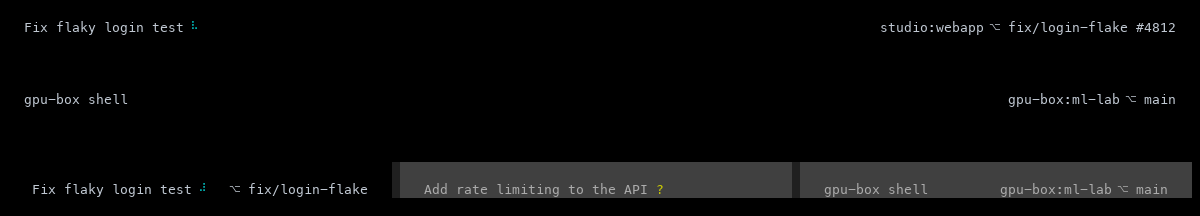
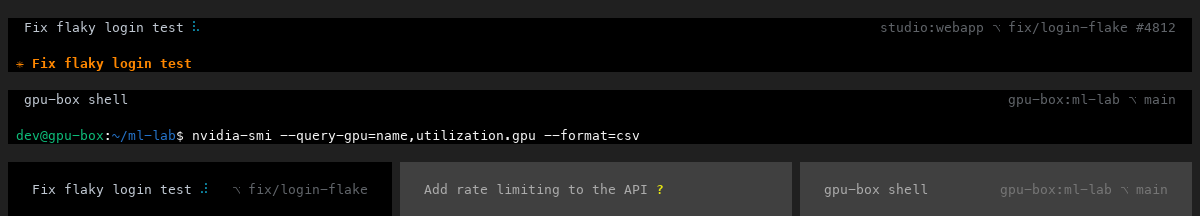
fix(hn): show the local host beside the status clock

diff --git a/tui/tests/pane-ui.py b/tui/tests/pane-ui.py
@@ -31,7 +31,8 @@ ENV.update(HOME=str(BASE), HN_TMPDIR=str(BASE), HN_SOCKET_NAME=PREFIX, PORT=str(
            TERM='xterm-256color', COLORTERM='truecolor', SHELL='/bin/sh', HARNESS_TUI_DESK='sync',
            HARNESS_TUI_NOTIFY='off', HN_DESKTOP='off', MOCK_DEMO='1', MOCK_RECONNECT='1', MOCK_USAGE='100')
 CONF = BASE / 'tmux.conf'
-CONF.write_text('set -g automatic-rename off\nset -g status-right "  #{usage_remaining_mark}  #{s/ /  /:fleet}  #{pane_machine}:#{b:pane_current_path}  20:41 "\n')
+CONF.write_text('set -g automatic-rename off\n'
+                'set -g status-right \'  #{usage_remaining_mark}  #{s/ /  /:fleet}  "#{=/21/…:host}"  20:41 \'\n')
 OUTPUT = Path(os.environ['HN_PANE_UI_OUTPUT']) if os.environ.get('HN_PANE_UI_OUTPUT') else None
 if OUTPUT:
     OUTPUT.mkdir(parents=True, exist_ok=True)
@@ -221,38 +222,44 @@ try:
     assert plain_header.startswith(title + ' '), (title, plain_header)
     hn('set', '-gu', 'status-right')
     default_status = hn('show', '-gv', 'status-right', strip=False)
-    assert all(part not in default_status for part in ('pane_branch', 'pane_where', 'git:'))
-    location = value('#{pane_machine}:#{b:pane_current_path}')
-    assert location in value(default_status), (location, value(default_status))
-    wait(lambda: location in tmux('capture-pane', '-p', '-t', 'test').splitlines()[-1], 'bottom right shows the focused machine and folder')
+    assert all(part not in default_status for part in ('pane_branch', 'pane_where', 'pane_machine', 'pane_current_path', 'pane_project', 'git:'))
+    assert value('#{host}') == socket.gethostname(), 'status host is the machine running hn'
+    host_label = value('"#{=/21/…:host}"')
+    assert host_label in value(default_status), (host_label, value(default_status))
+    def local_host_status():
+        line = tmux('capture-pane', '-p', '-t', 'test').splitlines()[-1]
+        return re.search(re.escape(host_label) + r'  \d{2}:\d{2}$', line.rstrip()) and '[' + session + ']' not in line
     def aligned_status_edges():
         line = tmux('capture-pane', '-p', '-t', 'test').splitlines()[-1]
-        return line.startswith(' [') and len(line.rstrip()) == 149
+        return re.match(r' \d+:', line) and len(line.rstrip()) == 149
     wait(lambda: 'Claude 0%  Codex 89%' in tmux('capture-pane', '-p', '-t', 'test').splitlines()[-1], 'default status includes both subscription allowances')
     wait(aligned_status_edges, 'default status text has one outer space matching the pane margins')
-    hn('set', '-g', 'status-right', custom_status)
     default_left = hn('show', '-gv', 'status-left', strip=False)
     session = value('#{session_name}')
     assert session == value('#{pane_machine}'), 'desk session is named for the local machine'
     for target in (third, second, first):
         hn('select-pane', '-t', target)
-        assert value(default_left).strip() == '[' + session + ']'
-        wait(lambda: tmux('capture-pane', '-p', '-t', 'test').splitlines()[-1].startswith(' [' + session + ']'), 'local machine label stays visible across local and remote panes')
+        assert value(default_left).strip() == ''
+        wait(local_host_status, 'quoted local host stays beside the clock across local and remote panes; no machine label on the left')
+        if target in (first, third):
+            snapshot('status-local' if target == first else 'status-remote')
     for window in hn('list-windows', '-F', '#{window_id}').splitlines():
         hn('select-window', '-t', window)
-        assert value(default_left).strip() == '[' + session + ']'
-        wait(lambda: tmux('capture-pane', '-p', '-t', 'test').splitlines()[-1].startswith(' [' + session + ']'), 'local machine label stays visible in every window')
+        assert value(default_left).strip() == ''
+        wait(local_host_status, 'quoted local host stays beside the clock in every window')
     hn('select-window', '-t', current)
     hn('select-pane', '-t', first)
     keys('C-b')
-    wait(lambda: '[' + session + '] ›' in tmux('capture-pane', '-p', '-t', 'test').splitlines()[-1], 'prefix cue stays beside the local machine label')
+    wait(lambda: tmux('capture-pane', '-p', '-t', 'test').splitlines()[-1].startswith(' › '), 'prefix cue remains before the window tabs')
     keys('Escape')
     hn('rename-session', 'work-review')
-    assert value(default_left).strip() == '[work-review]', 'distinct session labels remain visible'
+    assert value(default_left).strip() == '', 'renaming a session does not add a left label'
+    wait(local_host_status, 'renaming a session does not change the quoted host')
     hn('set', '-g', 'status-left', '[custom] ')
     assert value(hn('show', '-gv', 'status-left')).strip() == '[custom]'
     hn('set', '-gu', 'status-left')
     hn('rename-session', session)
+    hn('set', '-g', 'status-right', custom_status)
     for option in ('window-status-activity-style', 'window-status-bell-style'):
         assert hn('show', '-gwv', option) == 'bold'
     assert 'reverse' not in hn('show', '-gv', 'status-format[1]')

diff --git a/tui/src/options/mod.rs b/tui/src/options/mod.rs
@@ -93,13 +93,12 @@ pub fn defaults() -> &'static BTreeMap<String, String> {
         // has it] when another window has the pane to type in, and its project and branch
         // where there is room. Git context stays here; the status bar keeps the location cue.
         m.insert("pane-border-format".into(), " #{pane_heading}#{?pane_where,#[align=right] #[dim]#{pane_where} #[nodim],}".into());
-        // Session and window navigation on the left; connection, quota, fleet, location and
-        // clock on the right. Always show the desk's local machine/session label so
-        // changing the focused machine or window does not shift the tab list.
+        // Window navigation on the left; connection, quota, fleet, host and clock on the
+        // right. The quoted host is this computer, independent of the focused pane.
         // One cell at each outer edge aligns status text with the pane surfaces.
         // Two spaces separate the window list from the information on the right.
-        m.insert("status-left".into(), " #{?client_prefix,#[bold],}[#{session_name}]#{?client_prefix, ›#[nobold],} ".into());
-        m.insert("status-right".into(), "  #{?daemon_down,#[bold]daemon down#[nobold]  ,}#{?usage_remaining,#{usage_remaining_mark}  ,}#{?fleet,#{s/ /  /:fleet}  ,}#{?pane_watching,[watching]  ,}#{?pane_machine,#{=/12/…:pane_machine},#{host_short}}#{?pane_current_path,:#{=/18/…:#{b:pane_current_path}},#{?pane_project,:#{=/18/…:pane_project},}}  %H:%M ".into());
+        m.insert("status-left".into(), " #{?client_prefix,#[bold]›#[nobold] ,}".into());
+        m.insert("status-right".into(), "  #{?daemon_down,#[bold]daemon down#[nobold]  ,}#{?usage_remaining,#{usage_remaining_mark}  ,}#{?fleet,#{s/ /  /:fleet}  ,}#{?pane_watching,[watching]  ,}\"#{=/21/…:host}\"  %H:%M ".into());
         // Each window's most urgent harness at a glance (the symbol its pane titles show) and its
         // name in a few whole words (#{window_short_name}): a harness is named for its task.
         // Keep tmux's familiar current/previous markers beside the name, then any other
@@ -117,9 +116,9 @@ pub fn defaults() -> &'static BTreeMap<String, String> {
         // so a terminal tab says what is in it (the status changing in the title as it works).
         m.insert("set-titles".into(), "on".into());
         m.insert("set-titles-string".into(), "#{?fleet_needs,?#{fleet_needs} ,}#{pane_title}#{?pane_agent_state, (#{pane_agent_state}),} — Harness".into());
-        // A session is a machine, named as the machine is (tmux's are 0, 1, …): room for its name.
+        // Leave room for custom status-left formats as well as the prefix cue.
         m.insert("status-left-length".into(), "24".into());
-        // Room for both subscription allowances without cutting off location and time.
+        // Room for both subscription allowances without cutting off host and time.
         m.insert("status-right-length".into(), "96".into());
         // Agents print a lot: ten thousand lines of scrollback (tmux keeps two).
         m.insert("history-limit".into(), "10000".into());
@@ -667,9 +666,9 @@ mod tests {
     #[test]
     fn every_default_is_in_the_table() {
         for name in defaults().keys() { assert!(find(name).is_some(), "{name}") }
-        // tmux's own default, in the fixture; hn's status-left adds emphasis and a prefix cue.
+        // tmux's own default stays in the fixture; hn leaves only padding and a prefix cue.
         assert!(include_str!("../../tests/fixtures/tmux-3.5a-options.txt").contains("session status-left \"[#{session_name}] \""));
-        assert_eq!(defaults().get("status-left").map(String::as_str), Some(" #{?client_prefix,#[bold],}[#{session_name}]#{?client_prefix, ›#[nobold],} "));
+        assert_eq!(defaults().get("status-left").map(String::as_str), Some(" #{?client_prefix,#[bold]›#[nobold] ,}"));
         assert_eq!(defaults().get("status-interval").map(String::as_str), Some("15"));
     }
 

diff --git a/tui/src/app.rs b/tui/src/app.rs
@@ -2181,7 +2181,7 @@ impl App {
         self.fit_panes();
     }
 
-    /// tmux's #S: this computer's name, as the status line's `[…]` shows it.
+    /// tmux's #S: the session alias, or this computer's name by default.
     pub fn session_name(&self) -> String {
         if let Some(a) = &self.session_alias { return a.clone() }
         self.machine_session_name()

diff --git a/tui/README.md b/tui/README.md
@@ -101,12 +101,12 @@ harness's name, not what the program sets), `history-limit 10000` (agents print 
 harnesses waiting on you and the one in front; `set-titles-string` changes it), and the status line:
 each window's most urgent harness state follows its name and tmux marker; idle dots are hidden
 in tabs and pane headers. Connection, quota,
-fleet counts, `machine:folder` and clock sit on the right. The git branch stays in its pane
+fleet counts, the quoted hostname and clock sit on the right. The git branch stays in its pane
 header, aligned to the right with its PR and written `⎇ branch` without redundant punctuation.
 Status-bar groups are separated by two spaces, with one space at each outer edge to align
-with the pane surfaces. The left session label always stays visible: the
-desk uses the local machine name, independent of the focused pane's machine on the right.
-Custom session names and the prefix cue remain supported.
+with the pane surfaces. Window tabs start at the left, without a machine/session label.
+The right side shows the machine running hn, such as `"m0.local"`, independent of the
+focused pane or session name. Custom status formats and the prefix cue remain supported.
 One key differs on purpose: ⇧⏎
 reaches the pane as `CSI 13;2u` (a new line in an agent's prompt; tmux, without `extended-keys`,
 sends a plain Enter).
@@ -199,7 +199,7 @@ pane counts as done and unread (`✓`) until you go to that pane.
 
 - **The status line** counts the whole fleet: `?2 ✗1 ✓5 ⠹41` means two need you, one failed,
   five are done and unread, and 41 are working. Idle ones aren't counted, and a state with none
-  drops out. The right side keeps the focused pane's `machine:folder` and the clock, with two
+  drops out. The right side keeps the quoted local hostname and the clock, with two
   spaces between groups. Branch and pull request context stay in the pane header.
 - **`C-b s`** lists every harness, the most urgent nearest the prompt: needs you, failed, done and
   unread, working, then the rest. Each row has one line: the question, what it is doing now
